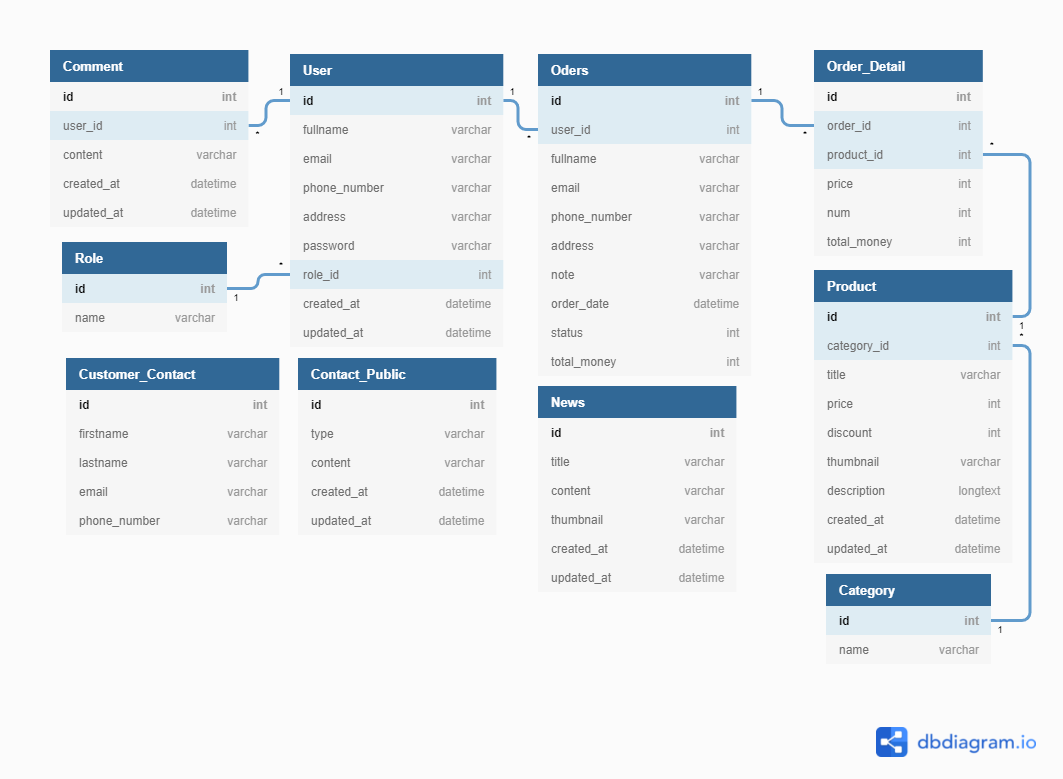
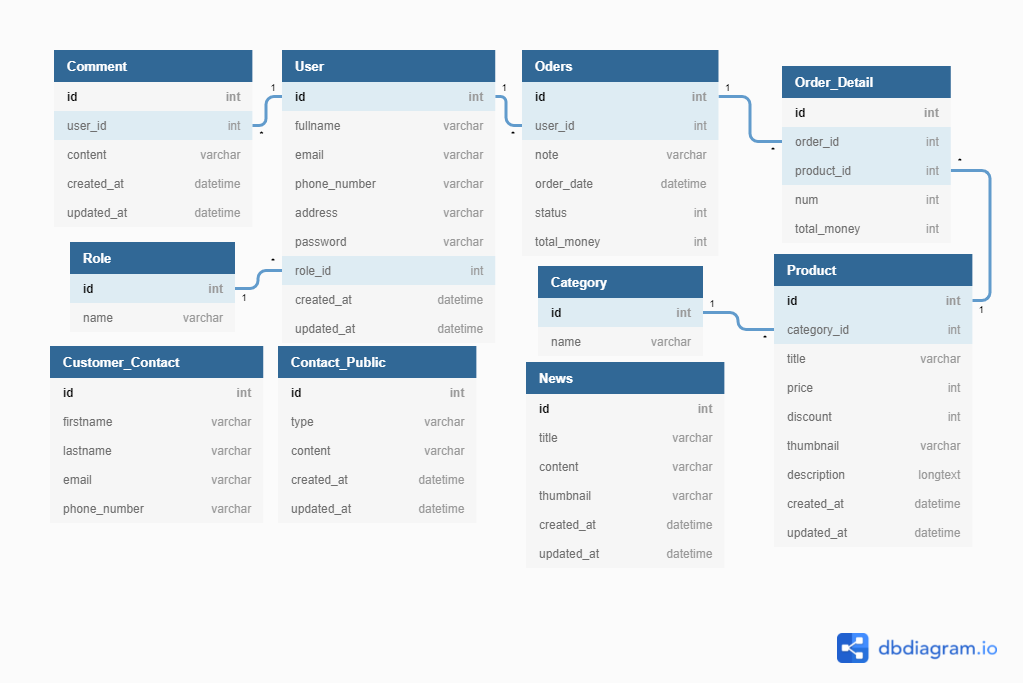
update db

diff --git a/Readme.md b/Readme.md
@@ -116,10 +116,6 @@ CREATE TABLE `Customer_Contact` (
 CREATE TABLE `Oders` (
   `id` int PRIMARY KEY,
   `user_id` int,
-  `fullname` varchar(255),
-  `email` varchar(255),
-  `phone_number` varchar(255),
-  `address` varchar(255),
   `note` varchar(255),
   `order_date` datetime,
   `status` int,
@@ -134,7 +130,6 @@ CREATE TABLE `Order_Detail` (
   `id` int PRIMARY KEY,
   `order_id` int,
   `product_id` int,
-  `price` int,
   `num` int,
   `total_money` int
 );
